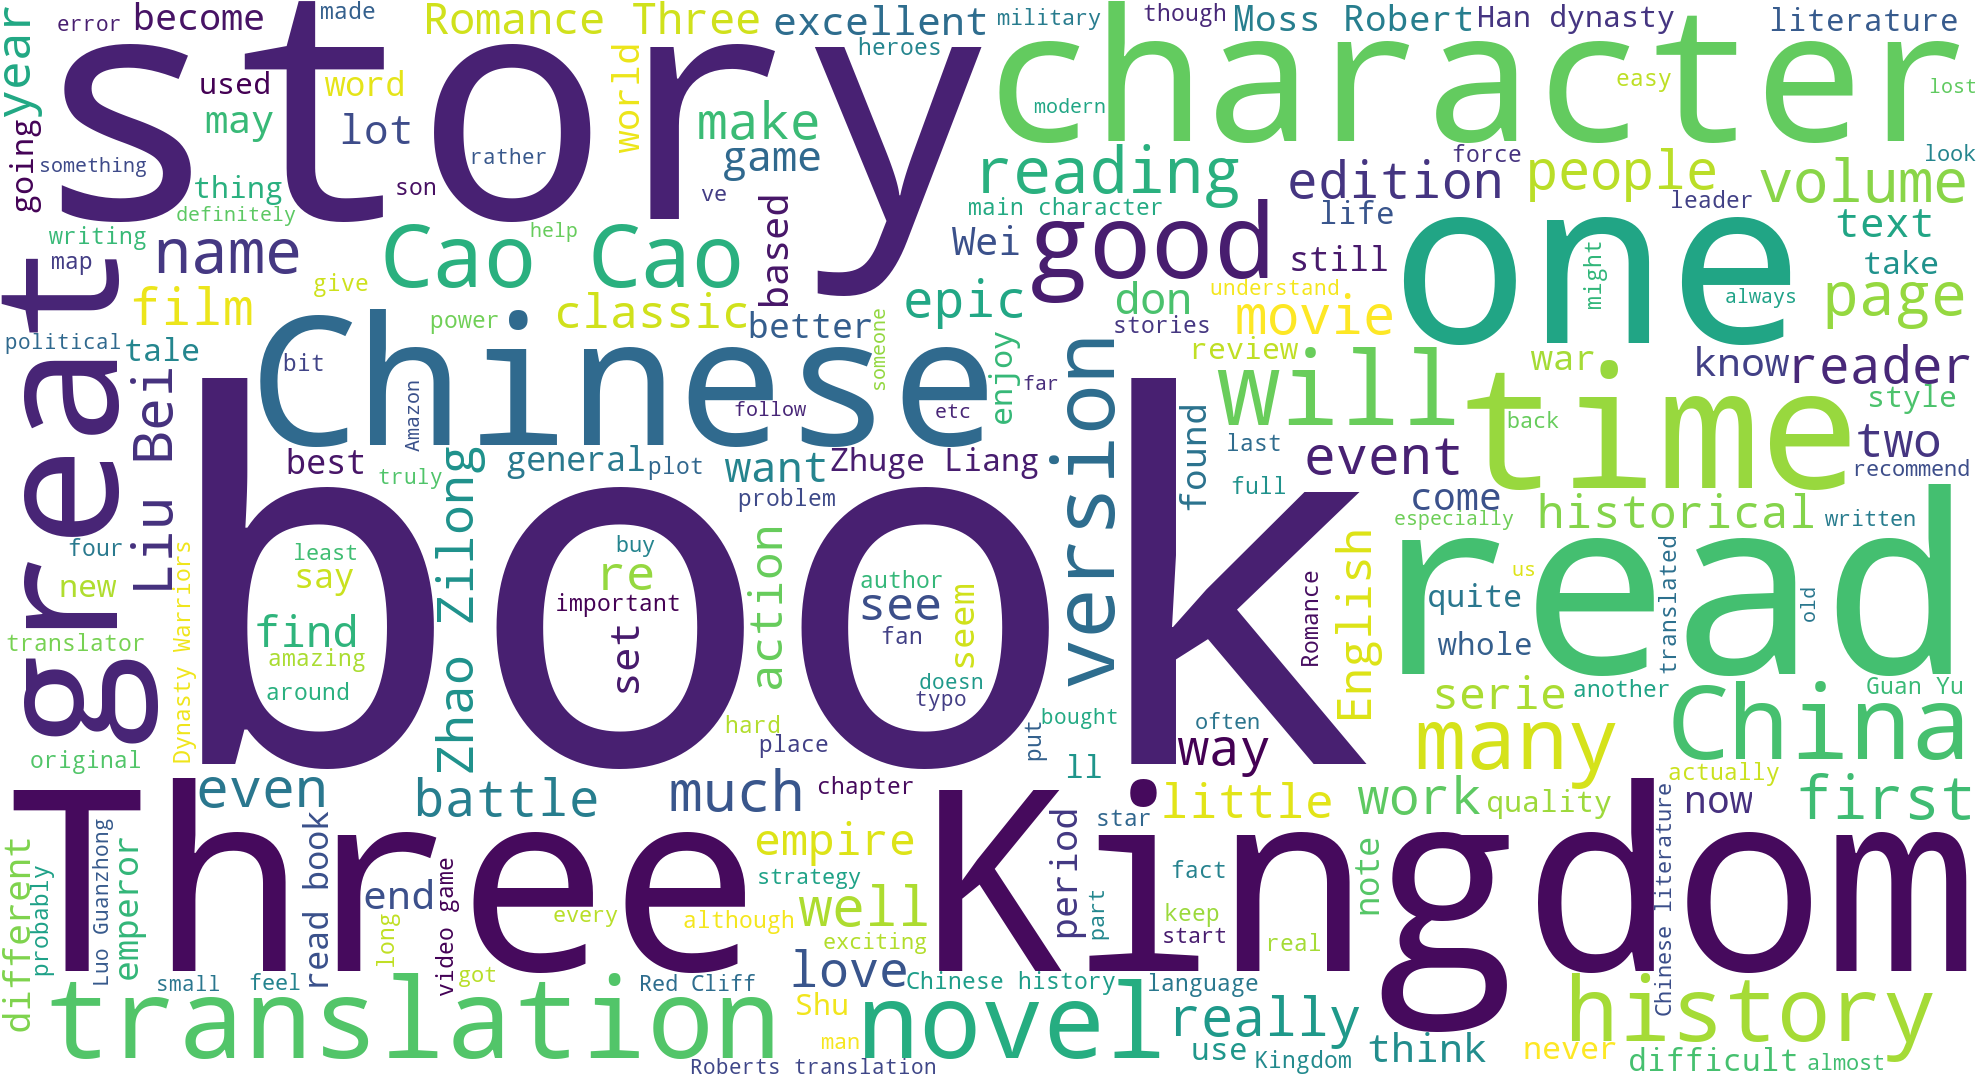
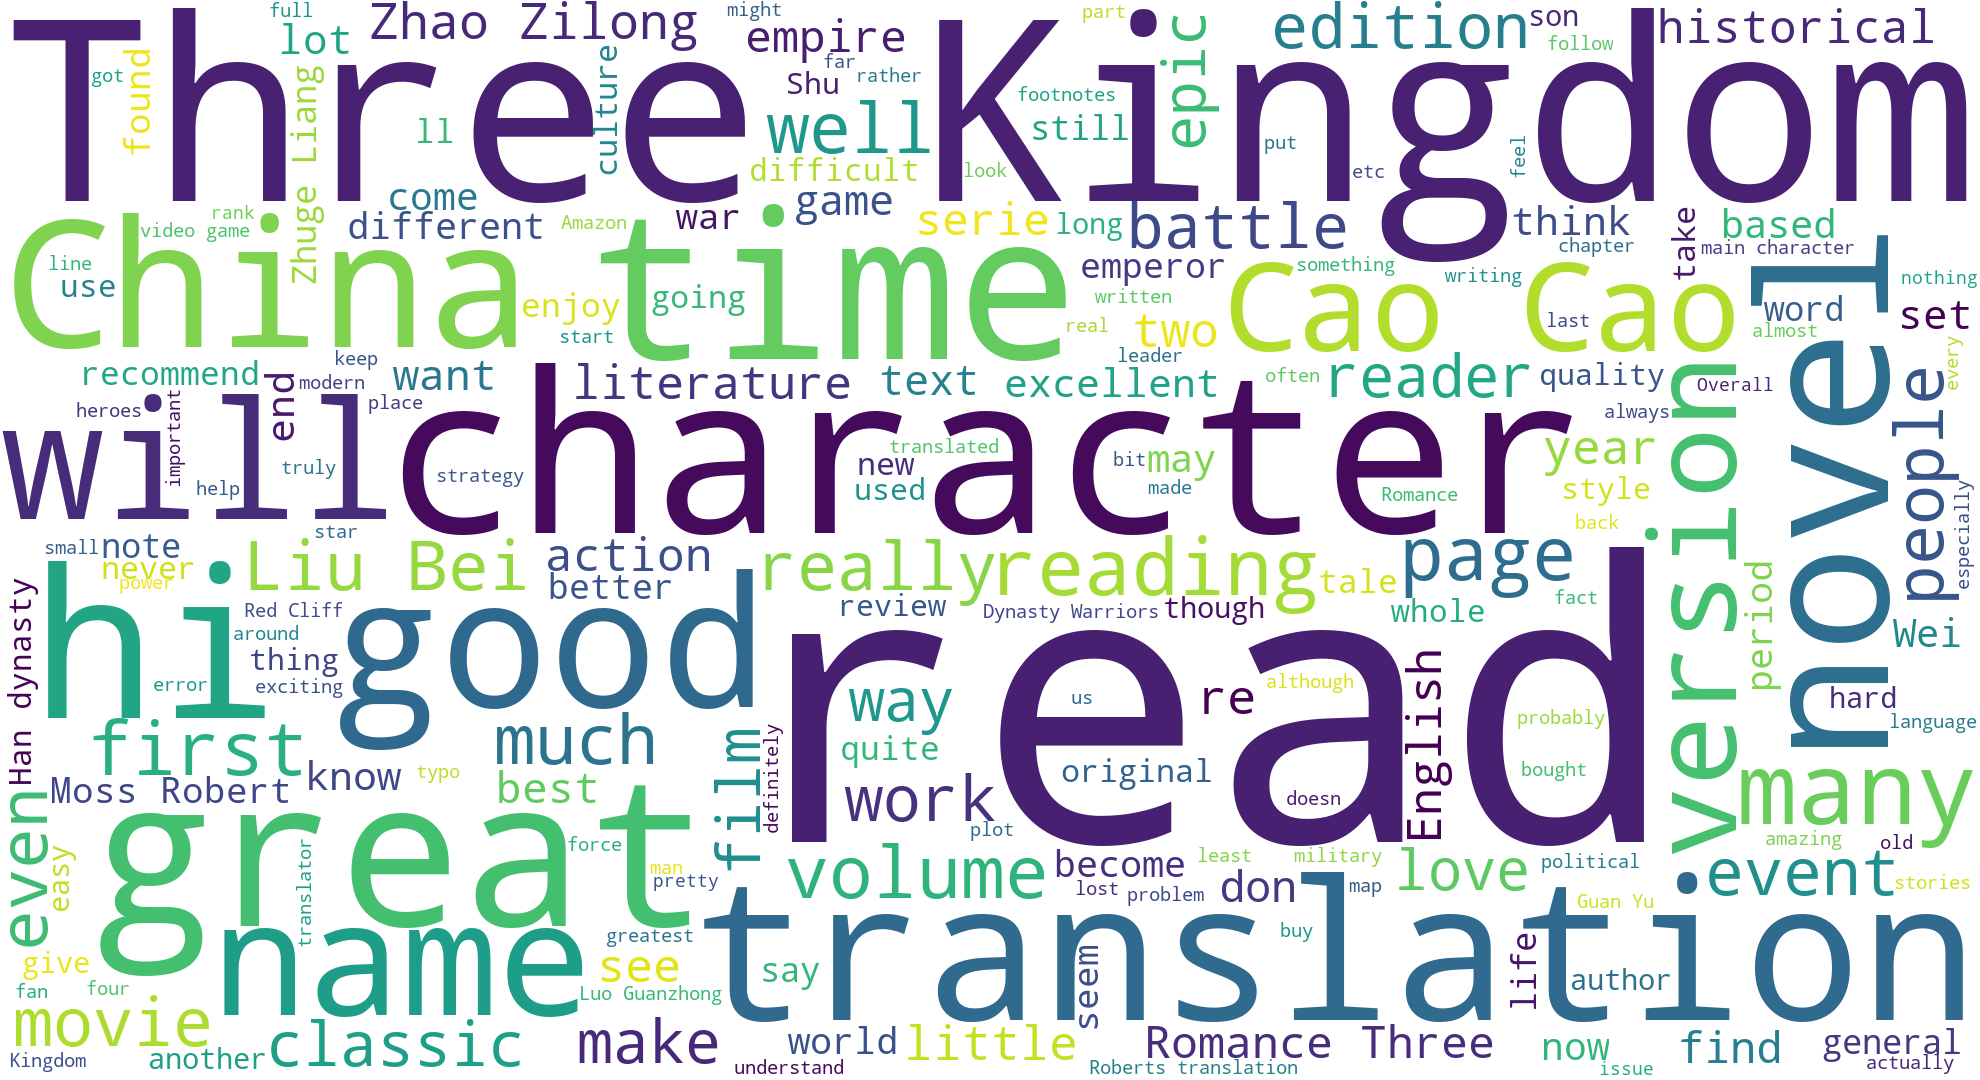
'词云调整'

diff --git a/NLP.py b/NLP.py
@@ -22,6 +22,9 @@ def getComments(filename): # 获取评论列表、评论中所有的单词，以
     return comments, words
 
 def getWordCloud(text_str, picture_name): # 生成词云
+    reps = ['book', 'one', 'Chinese', 'story']
+    for each in reps:
+        text_str = text_str.replace(each, '')
     wordcloud = WordCloud(background_color="white",width=1980, height=1080, margin=2, random_state=42).generate(text_str)
     wordcloud.to_file(picture_name)
     return
@@ -87,7 +90,7 @@ def get_p_or_n(comments, filename): # 获取情绪极化评分，并划定阈值
     csvfile.insert(1, 'stars', stars)
     csvfile.to_csv('./static/csvs/' + filename.replace('.csv', '_result.csv'), encoding='utf-8')
     stars = star_cnt
-    print(stars)
+    # print(stars)
 
     # 将一些数量值写入到json文件中
     infomation = {'positive': positive, 'negative': negative, 'middle': middle, 'star1': stars[0],\
@@ -101,7 +104,7 @@ def main():
         filename = bookname + ".csv"
         comments, words = getComments('./static/csvs/' + filename)
         print(len(comments))
-        # getWordCloud(words, "./static/wordclouds/wordcloud_of_%s.png"%bookname)
+        getWordCloud(words, "./static/wordclouds/wordcloud_of_%s.png"%bookname)
         get_p_or_n(comments, filename)
 
 if __name__ == "__main__":
